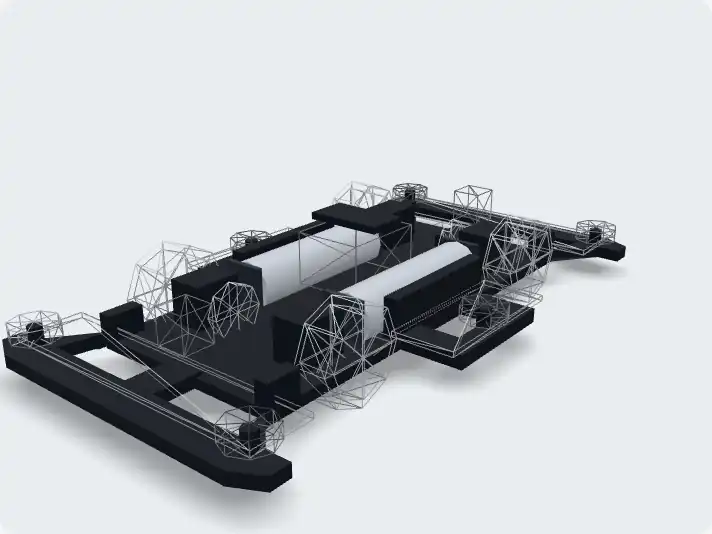
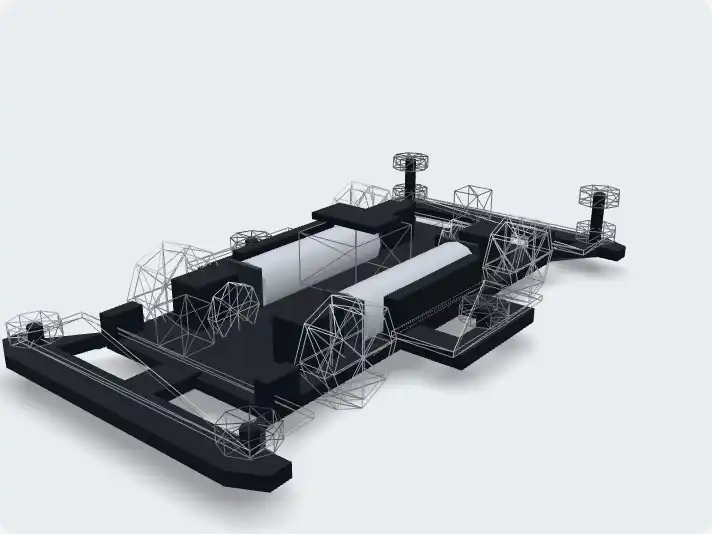
🐛 Stack the rear rollers an AR and an MA ship, so a stock car shows six
Both chassis carry two rollers on each rear post — one over the stay and
one under it on the same screw — which is the "six rollers" their own
records have claimed in prose since the chassis notes were written, and
which Tamiya's photo of a bare Aero Avante and of a stock Blast Arrow both
show. The pane drew one per side, so a reader counting rollers against the
box in front of them found two missing.

A roller post in `LAYOUTS` now carries a tier count as its third number,
`rollers()` reads it as the default hole, and the chassis generator
lengthens that post to carry the upper roller. Only these two take it: the
FM-A's photo shows a single rear roller and no other chassis record claims
six. The same pair belongs on the AR FRP wide rear stay, where the AR
starter pack puts it, so a two-tier hole with no upper deck draws the screw
through both rollers rather than a post up to a deck that is not there.

The count the build list prints follows the same cascade as the pane. A
plate that places the rollers says how many, which is why `rollersPerSide`
is now written for every such plate and not only for a double-roller stay:
the record has to tell "one per side on this plate" from "not this plate's
to say", or a plain wide stay on an AR would inherit the chassis' two.
With no such plate it is the chassis' own `rearRollersPerSide`. Both are
written by `catalog:generate` from shared/scene, which `shared/catalog`
cannot import.
[…]

Changed region(s): [[0.8034, 0.3296, 0.8961, 0.4494], [0.5562, 0.2697, 0.618, 0.3596]]

diff --git a/shared/scene/sockets.ts b/shared/scene/sockets.ts
@@ -70,6 +70,16 @@ export type Fit = {
 }
 
 /**
+ * A pair of roller posts: x and |z|, and how many rollers each post carries —
+ * 2 where the chassis ships one above its stay and one under it. AR and MA are
+ * the two that do, which is the "six rollers" their records claim
+ * (data/chassis/{ar,ma}.yml, read off Tamiya's own photo of each); every other
+ * chassis ships four. A plate in that end's stay slot replaces this with its
+ * own holes, so this is the bare chassis' count.
+ */
+export type Post = readonly [x: number, z: number, tiers?: 1 | 2]
+
+/**
  * The dozen numbers a chassis' sockets are laid out from. The chassis
  * generator reads the same layout, which is what keeps posts under rollers
  * and the motor bay under the motor without a second table.
@@ -78,8 +88,8 @@ export type Layout = {
   wheelbaseMm: number
   treadFrontMm: number
   treadRearMm: number
-  /** Roller post centres: x and |z| for the front and rear pairs, x for the side pair at z = 0. */
-  rollers: { front: readonly [x: number, z: number]; rear: readonly [x: number, z: number]; side: number }
+  /** Roller post centres: the front and rear posts, and x for the side pair at z = 0. */
+  rollers: { front: Post; rear: Post; side: number }
   /** How far out (|z|) the front and rear stays sit on their bumpers. */
   stayZ: number
   /** The side stays' x, on the side guards. */
@@ -124,8 +134,8 @@ const single = (
  * numbered, and all of them open the same picker.
  */
 function rollers(slotId: string, towardNose: 1 | -1, l: Layout, plate?: PlateShape): SceneSocket[] {
-  const [postX, postZ] = towardNose > 0 ? l.rollers.front : l.rollers.rear
-  const holes: readonly Hole[] = plate?.holes ?? [[postX, postZ - l.stayZ]]
+  const [postX, postZ, postTiers = 1] = towardNose > 0 ? l.rollers.front : l.rollers.rear
+  const holes: readonly Hole[] = plate?.holes ?? [[postX, postZ - l.stayZ, postTiers]]
   const found: SceneSocket[] = []
   for (const [x, z, tiers = 1] of holes) {
     for (let tier = 0; tier < tiers; tier++) {
@@ -222,7 +232,7 @@ const REAR_MOTOR = { position: [0, 13, -27], across: true } as const
 const LAYOUTS: Record<ChassisId, Layout> = {
   ma: {
     wheelbaseMm: 80, treadFrontMm: 59.5, treadRearMm: 59.5,
-    rollers: { front: [37, 78], rear: [37, 78], side: 42 }, stayZ: 72, sideStayX: 38, motor: MID_MOTOR
+    rollers: { front: [37, 78], rear: [37, 78, 2], side: 42 }, stayZ: 72, sideStayX: 38, motor: MID_MOTOR
   },
   ms: {
     wheelbaseMm: 80, treadFrontMm: 67, treadRearMm: 69,
@@ -234,7 +244,7 @@ const LAYOUTS: Record<ChassisId, Layout> = {
   },
   ar: {
     wheelbaseMm: 82, treadFrontMm: 67, treadRearMm: 67,
-    rollers: { front: [41, 80], rear: [41, 80], side: 45 }, stayZ: 74, sideStayX: 40, motor: REAR_MOTOR
+    rollers: { front: [41, 80], rear: [41, 80, 2], side: 45 }, stayZ: 74, sideStayX: 40, motor: REAR_MOTOR
   },
   'fm-a': {
     wheelbaseMm: 83, treadFrontMm: 59.5, treadRearMm: 59.5,
@@ -256,6 +266,14 @@ const LAYOUTS: Record<ChassisId, Layout> = {
 }
 
 export const layoutFor = (chassis: ChassisId): Layout => LAYOUTS[chassis]
+
+/**
+ * How many rollers this chassis' own rear posts hold on each side, before any
+ * plate. `catalog:generate` writes it onto the chassis record, the way a
+ * plate's count is written onto its part record, because the build list prints
+ * the count and cannot import this table (shared/scene/fittings.ts).
+ */
+export const stockRollersPerSide = (chassis: ChassisId): number => LAYOUTS[chassis].rollers.rear[2] ?? 1
 
 const SOCKETS = new Map<ChassisId, readonly SceneSocket[]>()
 

diff --git a/shared/scene/sockets.test.ts b/shared/scene/sockets.test.ts
@@ -3,7 +3,7 @@ import { readFileSync } from 'node:fs'
 import { test } from 'node:test'
 import { parse } from 'yaml'
 import { CHASSIS_IDS } from '../catalog/chassis.ts'
-import { layoutFor, socketsFor } from './sockets.ts'
+import { layoutFor, socketsFor, stockRollersPerSide } from './sockets.ts'
 import { DAMPERS, HALF_WIDTH_MM, LARGEST_ROLLER_MM, PLATES, rollersPerSide, UPPER_ROLLER_MM } from './fittings.ts'
 
 /**
@@ -34,9 +34,24 @@ test('every socket names a slot the chassis has, and socket names are unique', (
 test('every chassis shows the same slots, plus the counter gear and propeller shaft where the motor lies across, so the tap measurements carry over', () => {
   const ma = new Set(socketsFor('ma').map(s => s.name))
   for (const id of CHASSIS_IDS) {
-    const expected = layoutFor(id).motor.across ? new Set([...ma, 'counter-gear', 'propeller-shaft']) : ma
+    const expected = new Set(ma)
+    // MA is one of the two chassis whose rear posts carry a stacked pair, so
+    // its own set holds the upper tier; one that ships four rollers has none.
+    if (stockRollersPerSide(id) === 1) for (const name of ['roller-rear-l-2', 'roller-rear-r-2']) expected.delete(name)
+    if (layoutFor(id).motor.across) for (const name of ['counter-gear', 'propeller-shaft']) expected.add(name)
     assert.deepEqual(new Set(socketsFor(id).map(s => s.name)), expected, id)
   }
+})
+
+test('the two chassis that ship six rollers draw a rear pair on each side, and the rest one', () => {
+  for (const id of CHASSIS_IDS) {
+    const rear = socketsFor(id).filter(s => s.slotId === 'roller-rear' && s.position[0] < 0)
+    assert.equal(rear.length, stockRollersPerSide(id), id)
+    if (rear.length === 2) assert.equal(rear[1]!.position[1] - rear[0]!.position[1], UPPER_ROLLER_MM, `${id} upper tier`)
+    // The front bumper holds one each side on all eight.
+    assert.equal(socketsFor(id).filter(s => s.slotId === 'roller-front' && s.position[0] < 0).length, 1, id)
+  }
+  assert.deepEqual(CHASSIS_IDS.filter(id => stockRollersPerSide(id) === 2), ['ma', 'ar'])
 })
 
 test('a mirrored slot gets -l and -r sockets at mirrored x', () => {
@@ -93,7 +108,9 @@ test('every end plate puts as many rollers on each side as rollersPerSide says',
     for (const [plateId, plate] of Object.entries(PLATES)) {
       if (plate.side) continue
       const left = socketsFor(id, { plates: { 'rear-stay': plate } }).filter(s => s.slotId === 'roller-rear' && s.position[0] < 0)
-      assert.equal(left.length, rollersPerSide(plateId), `${id} ${plateId}`)
+      // A plate with holes says the count; one that bolts over the bumper
+      // leaves the rollers on the chassis' own posts, so that end keeps theirs.
+      assert.equal(left.length, plate.holes ? rollersPerSide(plateId) : stockRollersPerSide(id), `${id} ${plateId}`)
     }
   }
   assert.equal(rollersPerSide('rear-double-roller'), 2)

diff --git a/shared/catalog/build.ts b/shared/catalog/build.ts
@@ -42,7 +42,7 @@ export type BuildablePart = Pick<Part,
   'id' | 'names' | 'category' | 'slots' | 'isCarPart' | 'isAddOn' | 'contents' | 'chassisCompat'
   | 'classLegality' | 'specs' | 'colours' | 'body'> & HasThumbnail
 
-export type BuildableChassis = Pick<Chassis, 'id' | 'slots' | 'defaultLoadout' | 'motorShaft'>
+export type BuildableChassis = Pick<Chassis, 'id' | 'slots' | 'defaultLoadout' | 'motorShaft' | 'rearRollersPerSide'>
 
 export type BuildableKit = Pick<Kit, 'stockLoadout'>
 
@@ -316,19 +316,27 @@ const ROLLER_STAY: Partial<Record<Slot, Slot>> = { 'roller-front': 'front-stay',
  * The roller slots holding more than one roller each side, and how many. The
  * slot names one part, but a double-roller stay carries an upper and a lower
  * pair, and the pane draws all four; without the count the list would say
- * two. An empty roller slot has none to count, and a stock stay is moulded
- * plastic with no record, so it keeps the one per side its posts hold.
+ * two. An empty roller slot has none to count.
+ *
+ * The plate in that end's stay slot says the count where it is the one placing
+ * the rollers. Where it is not — no plate, or one that bolts on over the
+ * bumper — they stay on the chassis' own posts, and the rear posts of the AR
+ * and the MA hold a pair: a roller over the stay and one under it, the "six
+ * rollers" those two ship with. Both counts are written by `catalog:generate`
+ * from shared/scene, which this cannot import (§5.6).
  */
 export function rollersPerSideIn(
   slots: ResolvedSlot[],
-  partsById: ReadonlyMap<string, Pick<Part, 'specs'>>
+  partsById: ReadonlyMap<string, Pick<Part, 'specs'>>,
+  chassis?: Pick<Chassis, 'rearRollersPerSide'>
 ): Map<string, number> {
   const counts = new Map<string, number>()
   for (const slot of slots) {
     const stayType = ROLLER_STAY[slot.type]
     if (!stayType || !slot.entries.length) continue
     const stay = slots.find(s => s.type === stayType)?.entries[0]?.partId
-    const perSide = stay && partsById.get(stay)?.specs.rollersPerSide
+    const onPosts = slot.type === 'roller-rear' ? chassis?.rearRollersPerSide : undefined
+    const perSide = (stay ? partsById.get(stay)?.specs.rollersPerSide : undefined) ?? onPosts
     if (perSide && perSide > 1) counts.set(slot.id, perSide)
   }
   return counts

diff --git a/shared/scene/fittings.ts b/shared/scene/fittings.ts
@@ -180,9 +180,12 @@ export const PLATES: Record<string, PlateShape> = {
     pieces: [TONGUE, [[18, -4], [32, 0], [32, 10], [18, 10]], [[32, 0], [44, 2], [47, 6], [44, 11], [32, 10]]],
     thicknessMm: 1.5, holes: [[43, 6]]
   },
+  // Two rollers each side, one over the plate and one under it on the same
+  // screw: the AR ships six rollers and this plate is where its rear four go,
+  // which is how Tamiya builds it on the box of the AR starter pack.
   'wide-rear-ar': {
     pieces: [[[0, -14], [26, -14], [32, 0], [32, 10], [0, 10]], [[32, 0], [44, 2], [47, 6], [44, 11], [32, 10]]],
-    thicknessMm: 1.5, holes: [[43, 6]]
+    thicknessMm: 1.5, holes: [[43, 6, 2]]
   },
   // An upper and a lower roller each side; the upper deck stands on posts.
   'rear-double-roller': {
@@ -266,9 +269,19 @@ export function rollersPerSide(fitting: string | undefined): number {
   return plate.holes.reduce((n, [, , tiers = 1]) => n + tiers, 0)
 }
 
-/** A part's count as its record carries it: its plate's, if it goes in an end's stay slot. */
-export const partRollersPerSide = (part: { slots: readonly string[]; fitting?: string }): number =>
-  part.slots.includes('front-stay') || part.slots.includes('rear-stay') ? rollersPerSide(part.fitting) : 1
+/**
+ * A part's count as its record carries it, or `undefined` where the part does
+ * not place the rollers at all — anything but an end plate, and an end plate
+ * that bolts on over the bumper. They then stay on the chassis' own posts,
+ * whose count is on the chassis record (`stockRollersPerSide` in sockets.ts),
+ * so the record has to tell "one per side on this plate" from "not this
+ * plate's to say".
+ */
+export function partRollersPerSide(part: { slots: readonly string[]; fitting?: string }): number | undefined {
+  const onAnEnd = part.slots.includes('front-stay') || part.slots.includes('rear-stay')
+  const plate = part.fitting ? PLATES[part.fitting] : undefined
+  return onAnEnd && plate?.holes && !plate.side ? rollersPerSide(part.fitting) : undefined
+}
 
 /**
  * Where a damper-slot part mounts. `end`: across the car at the front or

diff --git a/scripts/catalog/generate.ts b/scripts/catalog/generate.ts
@@ -16,6 +16,7 @@ import { finishFor } from './finish.ts'
 import { fittingFor } from './fittings.ts'
 import { TIRES } from '../../shared/scene/wheels.ts'
 import { partRollersPerSide } from '../../shared/scene/fittings.ts'
+import { stockRollersPerSide } from '../../shared/scene/sockets.ts'
 import { GENRE_SERIES, KIT_GENRE_SERIES, type JpItem, type KitGenreCode, type PartGenreCode } from './sources/tamiya-jp.ts'
 import type { HkItem } from './sources/tamiya-hk.ts'
 import type { FandomKitVariant, FandomPart } from './sources/fandom.ts'
@@ -340,7 +341,7 @@ function buildPart(item: JpItem<PartGenreCode>) {
   // Read off the merged `fitting`, so an override that changes the row changes
   // the count; the build list prints it and cannot read the plate table (§5.6).
   const perSide = partRollersPerSide(merged)
-  if (perSide > 1) merged.specs = { ...merged.specs, rollersPerSide: perSide }
+  if (perSide !== undefined) merged.specs = { ...merged.specs, rollersPerSide: perSide }
 
   return { record: merged, matched }
 }
@@ -566,9 +567,11 @@ const chassisFiles = new Map<string, unknown>()
 for (const id of CHASSIS_IDS) {
   const base = readYamlFile<Record<string, unknown> & { slotProfile: string }>(`data/chassis/${id}.yml`)
   const { slotProfile, ...rest } = base
+  const perSide = stockRollersPerSide(id)
   const record = {
     ...rest,
     slots: slotProfiles[slotProfile],
+    ...(perSide > 1 ? { rearRollersPerSide: perSide } : {}),
     thumbnail: thumbnailFor('chassis', id),
     detailThumbnail: detailThumbnailFor('chassis', id),
     compatibleParts: (compat[id] ?? []).filter(itemId => selectedIds.has(itemId)).sort()

diff --git a/shared/catalog/schema.ts b/shared/catalog/schema.ts
@@ -184,7 +184,11 @@ export const partSpecs = z.object({
   rollerType: z.enum(['plastic', 'aluminium', 'bearing', 'other']).optional(),
   plateThicknessMm: z.number().optional(),
   plateMaterial: z.enum(['frp', 'carbon', 'aluminium', 'other']).optional(),
-  /** On a stay whose plate carries more than one roller each side: a double-roller stay's 2 (§5.6). */
+  /**
+   * Rollers each side on this plate, where the plate is the one placing them:
+   * a double-roller stay's 2, a plain wide stay's 1 (§5.6). Absent means the
+   * part does not place them, and the chassis' own posts do.
+   */
   rollersPerSide: z.number().optional(),
   gearRatio: z.string().optional(),
   motorShaft: z.enum(['single', 'double']).optional(),
@@ -452,6 +456,15 @@ export const chassisSchema = z.object({
   weightG: z.number().optional(),
   status: z.enum(['current', 'rerelease', 'discontinued']),
   notes: z.string().optional(),
+  /**
+   * Rollers each side on this chassis' own rear posts, where it ships more
+   * than one: AR and MA carry a roller above the stay and one under it, which
+   * is the "six rollers" their notes claim. Written by `catalog:generate` from
+   * the scene's layout table, the way a plate's count is written onto its part
+   * record, because the build list prints it and cannot import that table
+   * (shared/scene/sockets.ts). The front posts hold one on all eight.
+   */
+  rearRollersPerSide: z.number().optional(),
   /**
    * Our downscale of Tamiya's chassis photo. A chassis is not a catalogue item,
    * so the only place Tamiya pictures one is the chassis select page.

diff --git a/shared/scene/generators/fittings.ts b/shared/scene/generators/fittings.ts
@@ -18,6 +18,7 @@ import { cylinder, Triangles, wound } from './mesh.ts'
 import type { Point2 } from './mesh.ts'
 import { teeth } from './parts.ts'
 import type { Paint, PaintFinish } from './parts.ts'
+import { UPPER_ROLLER_MM } from '../fittings.ts'
 import type {
   AxleShape, BearingShape, BrakeShape, ChassisUnitShape, DamperShape, PlateShape, PropellerShape, RollerShape
 } from '../fittings.ts'
@@ -179,9 +180,13 @@ export function plate(shape: PlateShape, thicknessMm: number, towardNose: 1 | -1
   for (const deck of shape.layers ?? []) layer(g.body, deck.pieces, side, towardNose, deck.y, deck.y + thicknessMm)
   const upper = shape.layers?.find(deck => deck.y > top)
   for (const [x, z, tiers] of shape.holes ?? []) {
-    if (tiers !== 2 || !upper) continue
-    // A post inboard of each upper roller, from the plate up to its deck.
-    for (const sign of side ? [1] : [-1, 1]) g.steel.revolve(cylinder(1.2, top, upper.y), 6, 'y', [sign * (x - 6), 0, z * towardNose])
+    if (tiers !== 2) continue
+    // With an upper deck, a post inboard of each upper roller carries it. With
+    // none, the pair is stacked on one screw through the hole, so that is what
+    // stands there — up through both rollers, and proud of the upper one.
+    const [r, from, to] = upper ? [1.2, top, upper.y] : [1.1, 1, top + UPPER_ROLLER_MM + 3]
+    const inboard = upper ? 6 : 0
+    for (const sign of side ? [1] : [-1, 1]) g.steel.revolve(cylinder(r, from, to), 6, 'y', [sign * (x - inboard), 0, z * towardNose])
   }
   const sprung = shape.layers?.[0]
   for (const [x, z] of shape.springs ?? []) {

diff --git a/shared/scene/generators/chassis.ts b/shared/scene/generators/chassis.ts
@@ -15,6 +15,7 @@
  */
 import type { BufferGeometry } from 'three'
 import type { ChassisId } from '../../catalog/chassis.ts'
+import { UPPER_ROLLER_MM } from '../fittings.ts'
 import { AXLE_Y, layoutFor } from '../sockets.ts'
 import type { Layout } from '../sockets.ts'
 import { cylinder, Triangles, wound } from './mesh.ts'
@@ -255,14 +256,19 @@ class Chassis {
     }
   }
 
-  /** A short cylinder up from each bumper to each roller, where the layout puts the roller. */
+  /**
+   * A short cylinder up from each bumper to each roller, where the layout puts
+   * the roller — long enough to carry the upper one too where that end's posts
+   * hold two, since the screw a stacked pair shares runs the height of both.
+   */
   posts() {
-    const { front, rear, side } = this.layout.rollers
-    const at = (into: Triangles, x: number, z: number) => into.revolve(cylinder(2, 4, 13), 8, 'y', [x, 0, z])
+    const { front: [frontX, frontZ, frontTiers = 1], rear: [rearX, rearZ, rearTiers = 1], side } = this.layout.rollers
+    const at = (into: Triangles, x: number, z: number, tiers: number) =>
+      into.revolve(cylinder(2, 4, 13 + (tiers - 1) * UPPER_ROLLER_MM), 8, 'y', [x, 0, z])
     for (const sign of [-1, 1]) {
-      at(this.bumpers[1], sign * front[0], front[1])
-      at(this.bumpers[-1], sign * rear[0], -rear[1])
-      at(this.frame, sign * side, 0)
+      at(this.bumpers[1], sign * frontX, frontZ, frontTiers)
+      at(this.bumpers[-1], sign * rearX, -rearZ, rearTiers)
+      at(this.frame, sign * side, 0, 1)
     }
   }
 

diff --git a/app/components/build/Scene.client.vue b/app/components/build/Scene.client.vue
@@ -923,6 +923,12 @@ onMounted(() => {
    * it. A kit's own moulded body, wheels and tires have no item number and
    * take the kit's recorded colours, as long as the slot is still the kit's.
    * Then the category's natural colour.
+   *
+   * A stock roller falls back to the kit's A parts, because that is the sprue
+   * it is moulded on: the wiki records an A-parts colour for almost every kit
+   * and a roller colour for none, so without this every kit's rollers were the
+   * stock grey while its chassis was painted correctly around them. A kit
+   * whose rollers are not its A parts overrides it in data/overrides/kits.yml.
    */
   function tintFor(kind: ProxyKind, slot: ResolvedSlot, entry = 0): number {
     const part = coloursOf(slot, entry)
@@ -930,7 +936,8 @@ onMounted(() => {
     if (own) return hexColour(own)
     if (slot.swapped) return STOCK_TINT[kind]
     const kit = props.kitColours
-    const moulded = kind === 'body' || kind === 'wheel' || kind === 'tire' || kind === 'roller' ? kit?.[kind] : undefined
+    const moulded = kind === 'roller' ? kit?.roller ?? kit?.aParts
+      : kind === 'body' || kind === 'wheel' || kind === 'tire' ? kit?.[kind] : undefined
     return hexColour(moulded) ?? STOCK_TINT[kind]
   }
 

diff --git a/app/pages/index.vue b/app/pages/index.vue
@@ -49,7 +49,7 @@ const { track } = useAnalytics()
 const { data: catalog } = await useAsyncData('build-catalog', async () => {
   const [chassis, parts, kits] = await Promise.all([
     queryCollection('chassis')
-      .select('id', 'stem', 'names', 'slots', 'defaultLoadout',
+      .select('id', 'stem', 'names', 'slots', 'defaultLoadout', 'rearRollersPerSide',
         'motorShaft', 'motorPosition', 'releaseYear', 'notes', 'thumbnail')
       .all(),
     // `status`, `releaseDate` and `priceJpy` are selected but deliberately not
@@ -233,7 +233,7 @@ const slots = computed<ResolvedSlot[]>(() => {
 const gearRatio = computed(() =>
   hasBuild.value ? gearRatioOf(slots.value, partsById.value, kit.value) : undefined)
 
-const rollersPerSide = computed(() => rollersPerSideIn(slots.value, partsById.value))
+const rollersPerSide = computed(() => rollersPerSideIn(slots.value, partsById.value, shownChassis.value))
 
 const swappable = computed(() =>
   shownChassis.value

diff --git a/shared/scene/generators/generators.test.ts b/shared/scene/generators/generators.test.ts
@@ -395,10 +395,10 @@ test('every authored bumper and wing is convex pieces, and carries the roller po
   for (const [id, outline] of Object.entries(OUTLINES) as [ChassisId, ChassisOutlines][]) {
     const { rollers } = layoutFor(id)
     const ends = [['front', outline.front, rollers.front], ['rear', outline.rear, rollers.rear]] as const
-    for (const [end, pieces, post] of ends) {
+    for (const [end, pieces, [x, z]] of ends) {
       if (!pieces) continue
       for (const piece of pieces) assert.equal(new Set(turns(piece)).size, 1, `${id} ${end}: ${JSON.stringify(piece)} is convex`)
-      assert.ok(inside(pieces, post), `${id} ${end}: the post at ${post} stands on the bumper`)
+      assert.ok(inside(pieces, [x, z]), `${id} ${end}: the post at ${x},${z} stands on the bumper`)
     }
     if (outline.wings) {
       for (const piece of outline.wings) assert.equal(new Set(turns(piece)).size, 1, `${id} wing ${JSON.stringify(piece)} is convex`)

diff --git a/scripts/catalog/verify.ts b/scripts/catalog/verify.ts
@@ -329,8 +329,8 @@ for (const part of parts) {
   // The list prints this count and the pane draws the plate row's, so a row
   // edited without a regenerate would have the two disagree.
   const perSide = partRollersPerSide(part)
-  if ((part.specs.rollersPerSide ?? 1) !== perSide) {
-    errors.push(`${label}: records ${part.specs.rollersPerSide ?? 1} roller(s) per side, its plate row "${part.fitting}" carries ${perSide} — run catalog:generate`)
+  if (part.specs.rollersPerSide !== perSide) {
+    errors.push(`${label}: records ${part.specs.rollersPerSide ?? 'no'} roller(s) per side, its plate row "${part.fitting}" carries ${perSide ?? 'none'} — run catalog:generate`)
   }
 }
 
